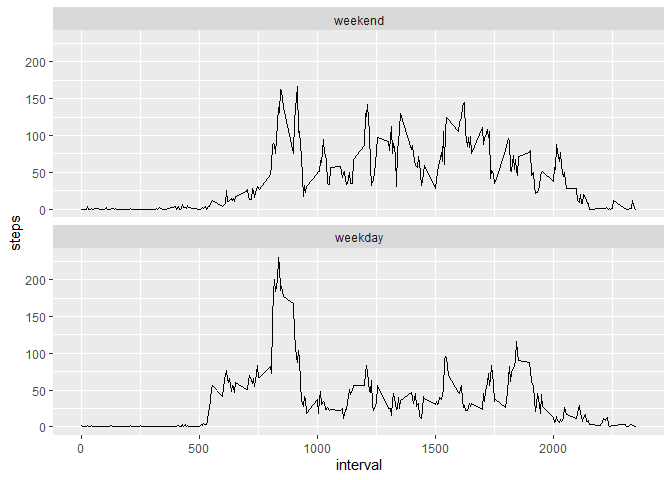
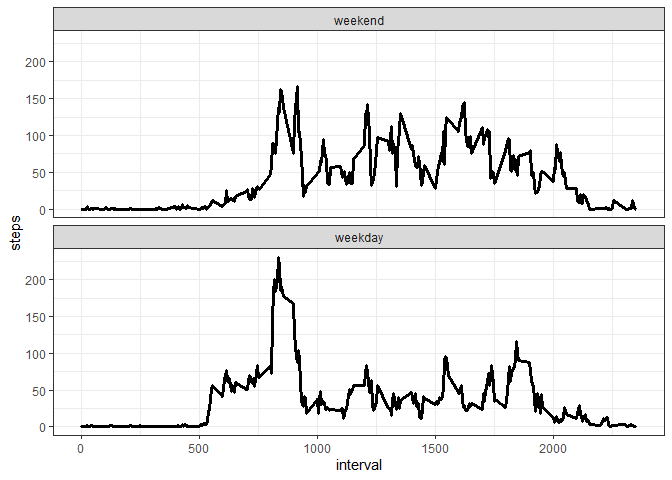
Final commit

diff --git a/PA1_template.html b/PA1_template.html
@@ -368,9 +368,7 @@ summary {
 
 <div id="loading-and-preprocessing-the-data" class="section level2">
 <h2>Loading and preprocessing the data</h2>
-<ol style="list-style-type: decimal">
-<li>Code for loading the required libraries and the data.</li>
-</ol>
+<p>1.Code for loading the required libraries and the data.</p>
 <pre class="r"><code>## Loading libraries
 library(readr)
 library(plyr)</code></pre>
@@ -417,20 +415,17 @@ activity &lt;- read_csv(&quot;activity.zip&quot;)</code></pre>
 ##   date = col_date(format = &quot;&quot;),
 ##   interval = col_double()
 ## )</code></pre>
-<ol start="2" style="list-style-type: decimal">
-<li>Processing the data(including all the procesing for further analyses)</li>
-</ol>
+<p>2.Processing the data(including all the procesing for further analyses)</p>
 <pre class="r"><code>a1 &lt;- tapply(activity$steps, activity$date, sum, na.rm = TRUE)
 a2 &lt;- tapply(activity$steps, activity$interval, mean, na.rm = TRUE)</code></pre>
 </div>
 <div id="what-is-mean-total-number-of-steps-taken-per-day" class="section level2">
 <h2>What is mean total number of steps taken per day?</h2>
-<ol style="list-style-type: decimal">
-<li>Following is the histogram for the total number of steps taken everyday</li>
-</ol>
+<p>1.Following is the histogram for the total number of steps taken everyday</p>
 <pre class="r"><code>hist(a1)</code></pre>
[1 lines of base64/hex data omitted]
-2. Followng is the mean and median of the total number of steps taken everyday</p>
[1 lines of base64/hex data omitted]
+<p>The histogram shows the frequency of the total number of steps taken everyday<br />
+2.Followng is the mean and median of the total number of steps taken everyday</p>
 <pre class="r"><code>mean(a1)</code></pre>
 <pre><code>## [1] 9354.23</code></pre>
 <pre class="r"><code>median(a1)</code></pre>
@@ -438,9 +433,7 @@ a2 &lt;- tapply(activity$steps, activity$interval, mean, na.rm = TRUE)</code></p
 </div>
 <div id="what-is-the-average-daily-activity-pattern" class="section level2">
 <h2>What is the average daily activity pattern?</h2>
-<ol style="list-style-type: decimal">
-<li>Following is the code for the time series plot of the total number of steps taken everyday</li>
-</ol>
+<p>1.Following is the code for the time series plot of the total number of steps taken everyday</p>
 <pre class="r"><code>plot(a2, type = &quot;l&quot;, lwd = 2)</code></pre>
[1 lines of base64/hex data omitted]
 <p>2.The 5-minute interval which has highest avergave on all days is</p>
@@ -453,13 +446,11 @@ a2 &lt;- tapply(activity$steps, activity$interval, mean, na.rm = TRUE)</code></p
 <p>1.The total number of missing values in the dataset are:</p>
 <pre class="r"><code>sum(is.na(activity$steps))</code></pre>
 <pre><code>## [1] 2304</code></pre>
-<ol start="2" style="list-style-type: decimal">
-<li>The missing values are replaced with the mean of the corresponding 5-minute interval</li>
-</ol>
+<p>2.The missing values are replaced with the mean of the corresponding 5-minute interval</p>
 <pre class="r"><code>activity2 &lt;- activity %&gt;%
-        group_by(interval) %&gt;%
-        mutate_each(funs(replace(., which(is.na(.)), mean(., na.rm=TRUE))), 
-                                       +                   starts_with(&#39;steps&#39;))</code></pre>
+group_by(interval) %&gt;%
+mutate_each(funs(replace(., which(is.na(.)), mean(., na.rm=TRUE))),
++                   starts_with(&#39;steps&#39;))</code></pre>
 <pre><code>## Warning: `funs()` is deprecated as of dplyr 0.8.0.
 ## Please use a list of either functions or lambdas: 
 ## 
@@ -477,33 +468,26 @@ a2 &lt;- tapply(activity$steps, activity$interval, mean, na.rm = TRUE)</code></p
 ## Please use `across()` instead.
 ## This warning is displayed once every 8 hours.
 ## Call `lifecycle::last_warnings()` to see where this warning was generated.</code></pre>
-<ol start="3" style="list-style-type: decimal">
-<li><p>A new dataset called activity2 is created after imputing the missing values</p></li>
-<li><p>Histogram of the total number of steps taken everyday after imputing the values is as follows:</p></li>
-</ol>
-<pre class="r"><code>a3 &lt;- tapply(activity$steps, activity$date, sum, na.rm = TRUE)
+<p>3.A new dataset called activity2 is created after imputing the missing values</p>
+<p>4.Histogram of the total number of steps taken everyday after imputing the values is as follows:</p>
+<pre class="r"><code>a3 &lt;- tapply(activity2$steps, activity2$date, sum, na.rm = TRUE)
 hist(a3)</code></pre>
[2 lines of base64/hex data omitted]
+<p>The mean and median of the total steps taken everyday in the new dataset is as follows:</p>
 <pre class="r"><code>mean(a3)</code></pre>
-<pre><code>## [1] 9354.23</code></pre>
+<pre><code>## [1] 10766.19</code></pre>
 <pre class="r"><code>median(a3)</code></pre>
-<pre><code>## [1] 10395</code></pre>
-</div>
-<div id="are-there-differences-in-activity-patterns-between-weekdays-and-weekends" class="section level2">
-<h2>Are there differences in activity patterns between weekdays and weekends?</h2>
-<ol style="list-style-type: decimal">
-<li>A new factor variable is created with two levels : Weekdays &amp; weekends</li>
-</ol>
+<pre><code>## [1] 10766.19</code></pre>
+<p>Imputing the data in the dataset has made the mean and median increase.<br />
+## Are there differences in activity patterns between weekdays and weekends? 1.A new factor variable is created with two levels : Weekdays &amp; weekends</p>
 <pre class="r"><code>weekday1 &lt;- c(&quot;Monday&quot;, &quot;Tuesday&quot;, &quot;Wednesday&quot;, &quot;Thursday&quot;, &quot;Friday&quot;)
 activity2 &lt;- mutate(activity2, holiday = factor((weekdays(date) %in% weekday1), 
                                                 levels=c(FALSE, TRUE), labels=c(&#39;weekend&#39;, &#39;weekday&#39;) ))</code></pre>
-<ol start="2" style="list-style-type: decimal">
-<li>Plotting the average of the steps taken in each 5-minute interval according to the factor variable holiday:</li>
-</ol>
+<p>2.Plotting the average of the steps taken in each 5-minute interval according to the factor variable holiday:</p>
 <pre class="r"><code>act2 &lt;- group_by(activity2, holiday, interval) %&gt;% summarise(steps = mean(steps))</code></pre>
 <pre><code>## `summarise()` regrouping output by &#39;holiday&#39; (override with `.groups` argument)</code></pre>
-<pre class="r"><code>ggplot(na.omit(act2), aes(x = interval, y = steps)) + geom_line() + facet_wrap(.~holiday, nrow = 2)</code></pre>
[1 lines of base64/hex data omitted]
+<pre class="r"><code>ggplot(na.omit(act2), aes(x = interval, y = steps)) + geom_line(lwd=1.2) + facet_wrap(.~holiday, nrow = 2) + theme_bw()</code></pre>
[1 lines of base64/hex data omitted]
 </div>
 
 

diff --git a/PA1_template.md b/PA1_template.md
@@ -7,7 +7,7 @@ output:
 
 
 ## Loading and preprocessing the data
-1. Code for loading the required libraries and the data.  
+1.Code for loading the required libraries and the data.  
 
 ```r
 ## Loading libraries
@@ -124,7 +124,7 @@ activity <- read_csv("activity.zip")
 ## )
 ```
 
-2. Processing the data(including all the procesing for further analyses)  
+2.Processing the data(including all the procesing for further analyses)  
 
 ```r
 a1 <- tapply(activity$steps, activity$date, sum, na.rm = TRUE)
@@ -132,15 +132,16 @@ a2 <- tapply(activity$steps, activity$interval, mean, na.rm = TRUE)
 ```
 
 ## What is mean total number of steps taken per day?
-1. Following is the histogram for the total number of steps taken everyday  
+1.Following is the histogram for the total number of steps taken everyday  
 
 ```r
 hist(a1)
 ```
 
 ![](PA1_template_files/figure-html/unnamed-chunk-3-1.png)<!-- -->
+  
 The histogram shows the frequency of the total number of steps taken everyday  
-2. Followng is the mean and median of the total number of steps taken everyday  
+2.Followng is the mean and median of the total number of steps taken everyday  
 
 ```r
 mean(a1)
@@ -159,7 +160,7 @@ median(a1)
 ```
 
 ## What is the average daily activity pattern?
-1. Following is the code for the time series plot of the total number of steps taken everyday  
+1.Following is the code for the time series plot of the total number of steps taken everyday  
 
 ```r
 plot(a2, type = "l", lwd = 2)
@@ -189,13 +190,13 @@ sum(is.na(activity$steps))
 ## [1] 2304
 ```
 
-2. The missing values are replaced with the mean of the corresponding 5-minute interval  
+2.The missing values are replaced with the mean of the corresponding 5-minute interval  
 
 ```r
 activity2 <- activity %>%
-        group_by(interval) %>%
-        mutate_each(funs(replace(., which(is.na(.)), mean(., na.rm=TRUE))), 
-                                       +                   starts_with('steps'))
+group_by(interval) %>%
+mutate_each(funs(replace(., which(is.na(.)), mean(., na.rm=TRUE))),
++                   starts_with('steps'))
 ```
 
 ```
@@ -221,24 +222,25 @@ activity2 <- activity %>%
 ## Call `lifecycle::last_warnings()` to see where this warning was generated.
 ```
 
-3. A new dataset called activity2 is created after imputing the missing values  
+3.A new dataset called activity2 is created after imputing the missing values  
 
-4. Histogram of the total number of steps taken everyday after imputing the values is as follows:  
+4.Histogram of the total number of steps taken everyday after imputing the values is as follows:  
 
 ```r
-a3 <- tapply(activity$steps, activity$date, sum, na.rm = TRUE)
+a3 <- tapply(activity2$steps, activity2$date, sum, na.rm = TRUE)
 hist(a3)
 ```
 
 ![](PA1_template_files/figure-html/unnamed-chunk-9-1.png)<!-- -->
- The mean and median of the total steps taken everyday in the new dataset is as follows:  
+   
+The mean and median of the total steps taken everyday in the new dataset is as follows:  
 
 ```r
 mean(a3)
 ```
 
 ```
-## [1] 9354.23
+## [1] 10766.19
 ```
 
 ```r
@@ -246,11 +248,12 @@ median(a3)
 ```
 
 ```
-## [1] 10395
+## [1] 10766.19
 ```
-
+  
+Imputing the data in the dataset has made the mean and median increase.  
 ## Are there differences in activity patterns between weekdays and weekends?
-1. A new factor variable is created with two levels : Weekdays & weekends  
+1.A new factor variable is created with two levels : Weekdays & weekends  
 
 ```r
 weekday1 <- c("Monday", "Tuesday", "Wednesday", "Thursday", "Friday")
@@ -258,7 +261,7 @@ activity2 <- mutate(activity2, holiday = factor((weekdays(date) %in% weekday1),
                                                 levels=c(FALSE, TRUE), labels=c('weekend', 'weekday') ))
 ```
 
-2. Plotting the average of the steps taken in each 5-minute interval according to the factor variable holiday:  
+2.Plotting the average of the steps taken in each 5-minute interval according to the factor variable holiday:  
 
 ```r
 act2 <- group_by(activity2, holiday, interval) %>% summarise(steps = mean(steps))
@@ -269,7 +272,7 @@ act2 <- group_by(activity2, holiday, interval) %>% summarise(steps = mean(steps)
 ```
 
 ```r
-ggplot(na.omit(act2), aes(x = interval, y = steps)) + geom_line() + facet_wrap(.~holiday, nrow = 2)
+ggplot(na.omit(act2), aes(x = interval, y = steps)) + geom_line(lwd=1.2) + facet_wrap(.~holiday, nrow = 2) + theme_bw()
 ```
 
 ![](PA1_template_files/figure-html/unnamed-chunk-12-1.png)<!-- -->
